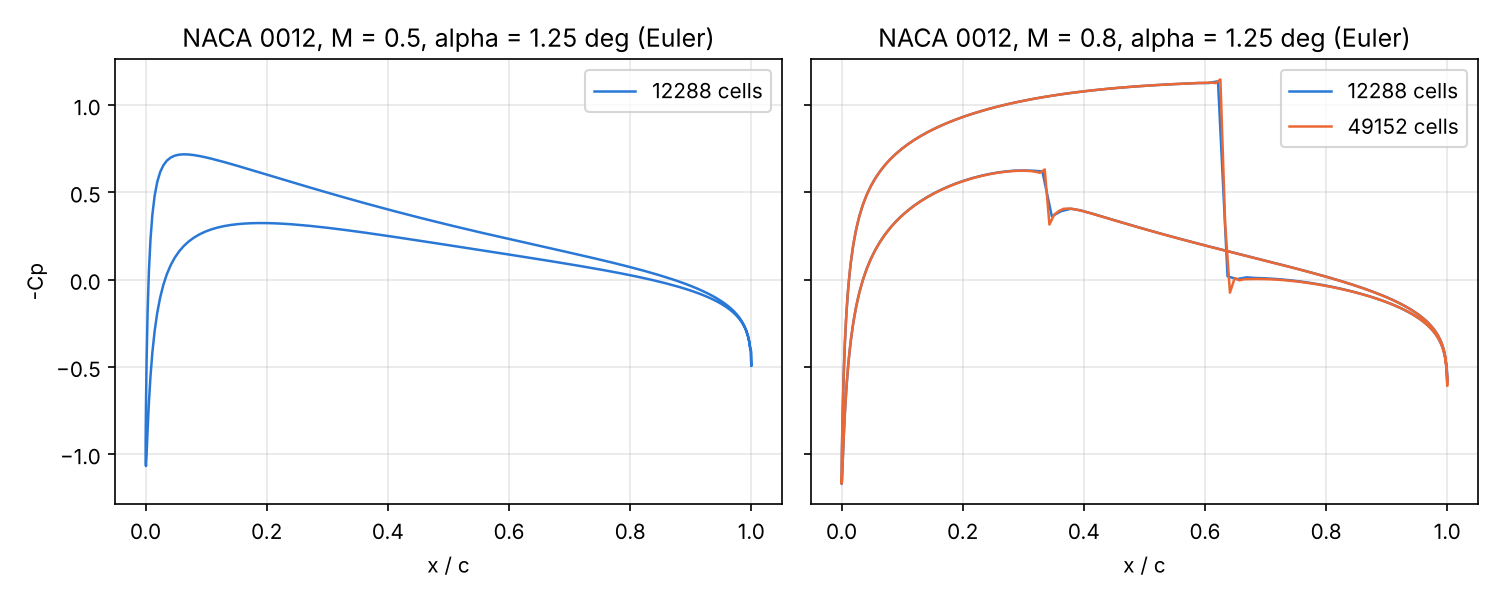
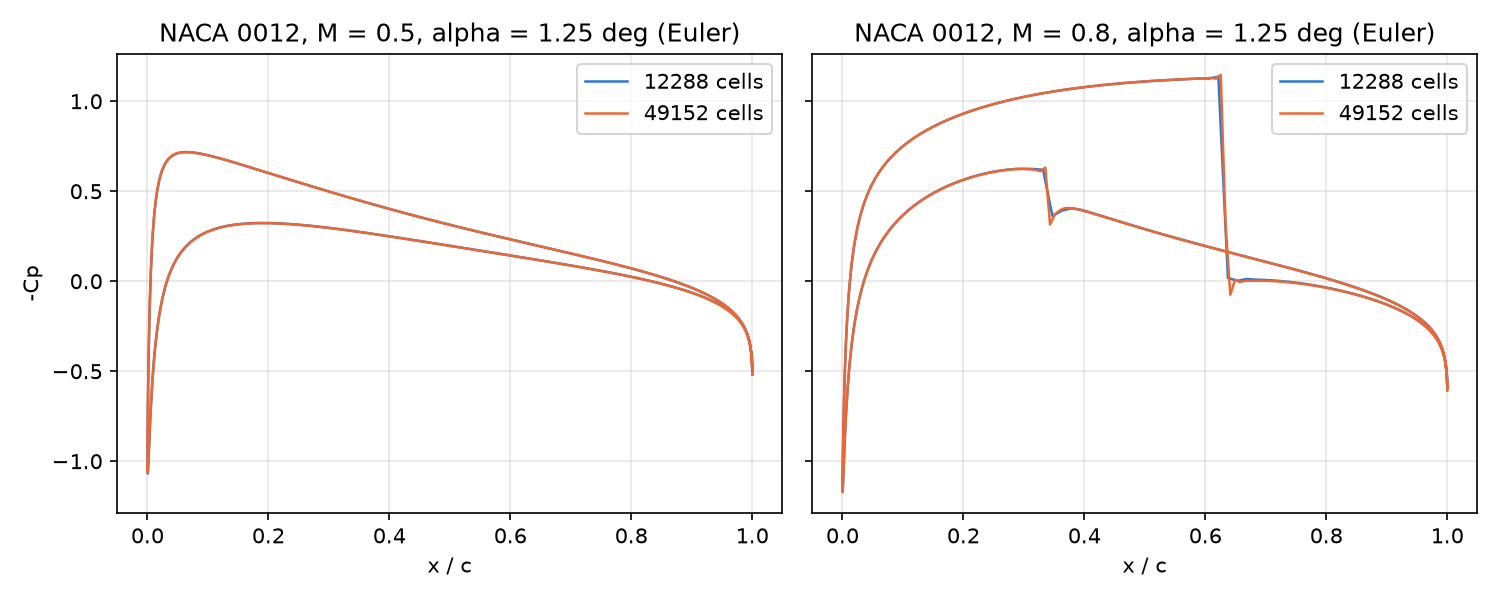
Add the 49k M 0.5 results and the two-level Cp figure to the validation
Claude-Session: https://claude.ai/code/session_012imjwn565WTynyVP6LMrhN

diff --git a/examples/l1_compressible.py b/examples/l1_compressible.py
@@ -1,7 +1,7 @@
 """L1 (C1) example: compressible Euler verification and validation.
 
-Run from the repository root (about 15 minutes with PARDISO on 4 cores for
-the coarse level; ``--fine`` adds the 384 x 128 O-grids):
+Run from the repository root (a few minutes with PARDISO, SuperLU is hours
+at 49k cells; ``--fine`` adds the 384 x 128 O-grids):
 
     python examples/l1_compressible.py [--fine]
 

diff --git a/docs/validation.md b/docs/validation.md
@@ -784,9 +784,9 @@ converged 10–11 orders (machine zero).
 
 | case | quantity | 192 × 64 (12k) | 384 × 128 (49k) | reference (range of the codes) |
 |---|---|---|---|---|
-| M 0.5, α 1.25° | C_L | 0.1760 | – | 0.17978–0.18035 |
-| | C_D | 0.00089 | – | 0.00000–0.00001 |
-| | C_M | 0.0016 | – | 0.00226–0.00228 |
+| M 0.5, α 1.25° | C_L | 0.1760 | 0.1770 | 0.17978–0.18035 |
+| | C_D | 0.00089 | 0.00068 | 0.00000–0.00001 |
+| | C_M | 0.0016 | 0.0018 | 0.00226–0.00228 |
 | M 0.8, α 1.25° | C_L | 0.3415 | 0.3436 | 0.3482–0.3562 |
 | | C_D | 0.02249 | 0.02251 | 0.02245–0.02268 |
 | | C_M | 0.0350 | 0.0355 | 0.0374–0.0388 |
@@ -800,9 +800,8 @@ lower end) with first-order grid convergence, as Vassberg & Jameson find for
 all their codes in the lifting transonic case (FLO82 needs 512² cells for
 the asymptotic range; on 128² it gives C_L 0.3735). At M 0.5 the drag is the
 spurious entropy drag of the coarse grids. For scale, FLO82 on its own
-128² grid has C_D 0.000298. The 49k M 0.5 run ran out of memory in the
-sandbox (SuperLU, 14 GB); with PARDISO it fits a desktop
-(`examples/l1_compressible.py --fine`).
+128² grid has C_D 0.000298. The 49k M 0.5 case (C_D 0.00068, down from 0.00089)
+shows the drag converging towards zero with grid refinement.
 
 ![Wall Cp](figures/l1_naca0012_cp.png)
 
